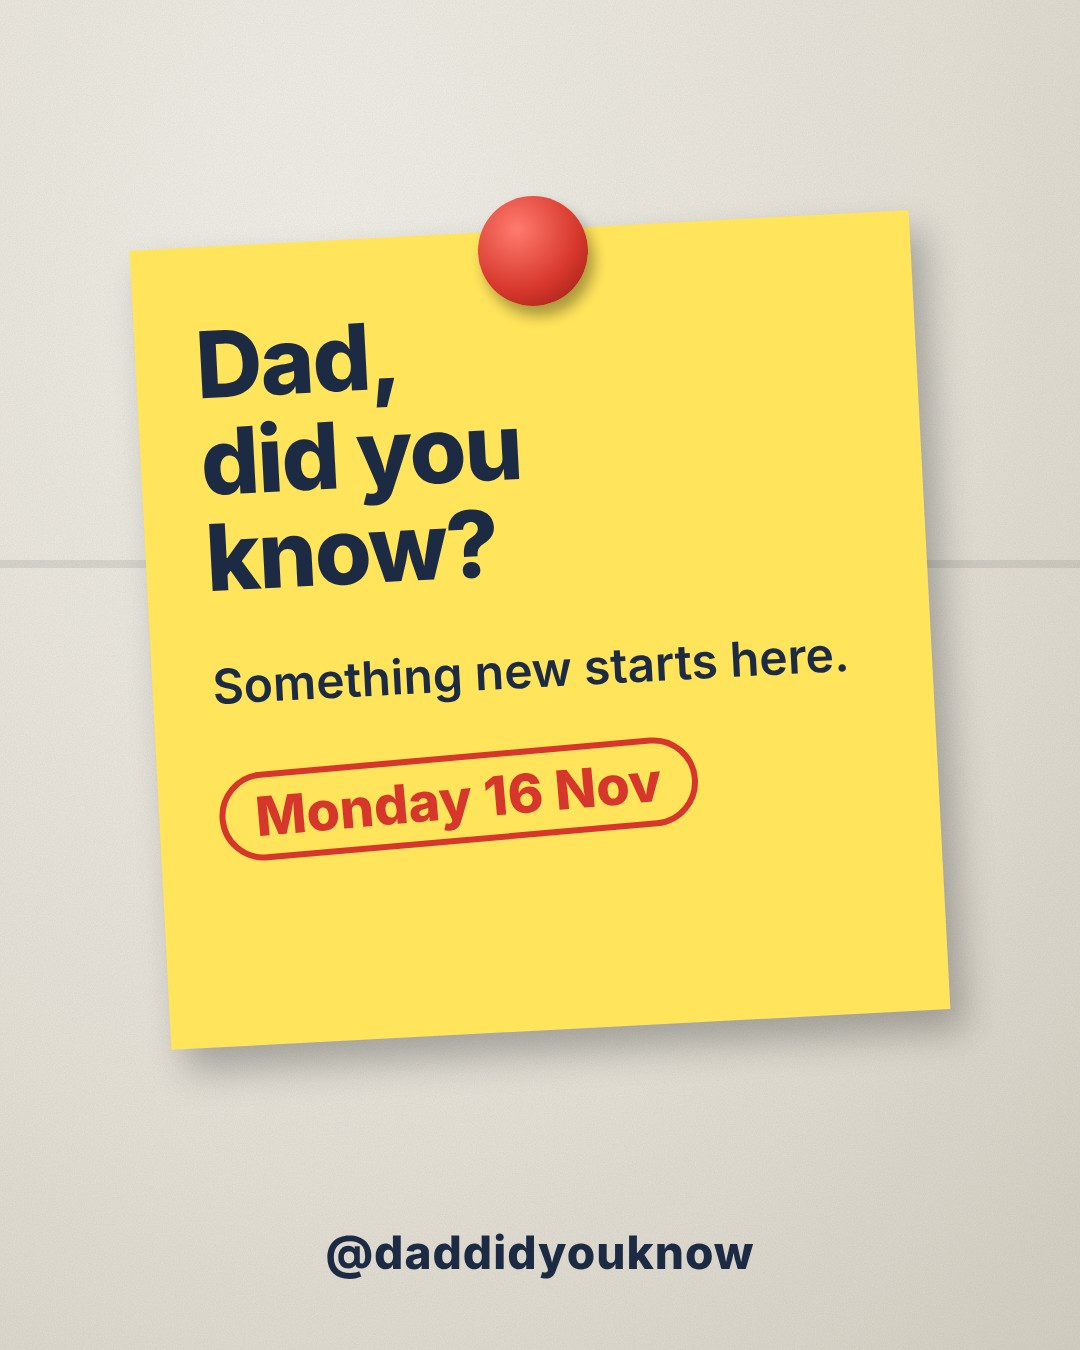
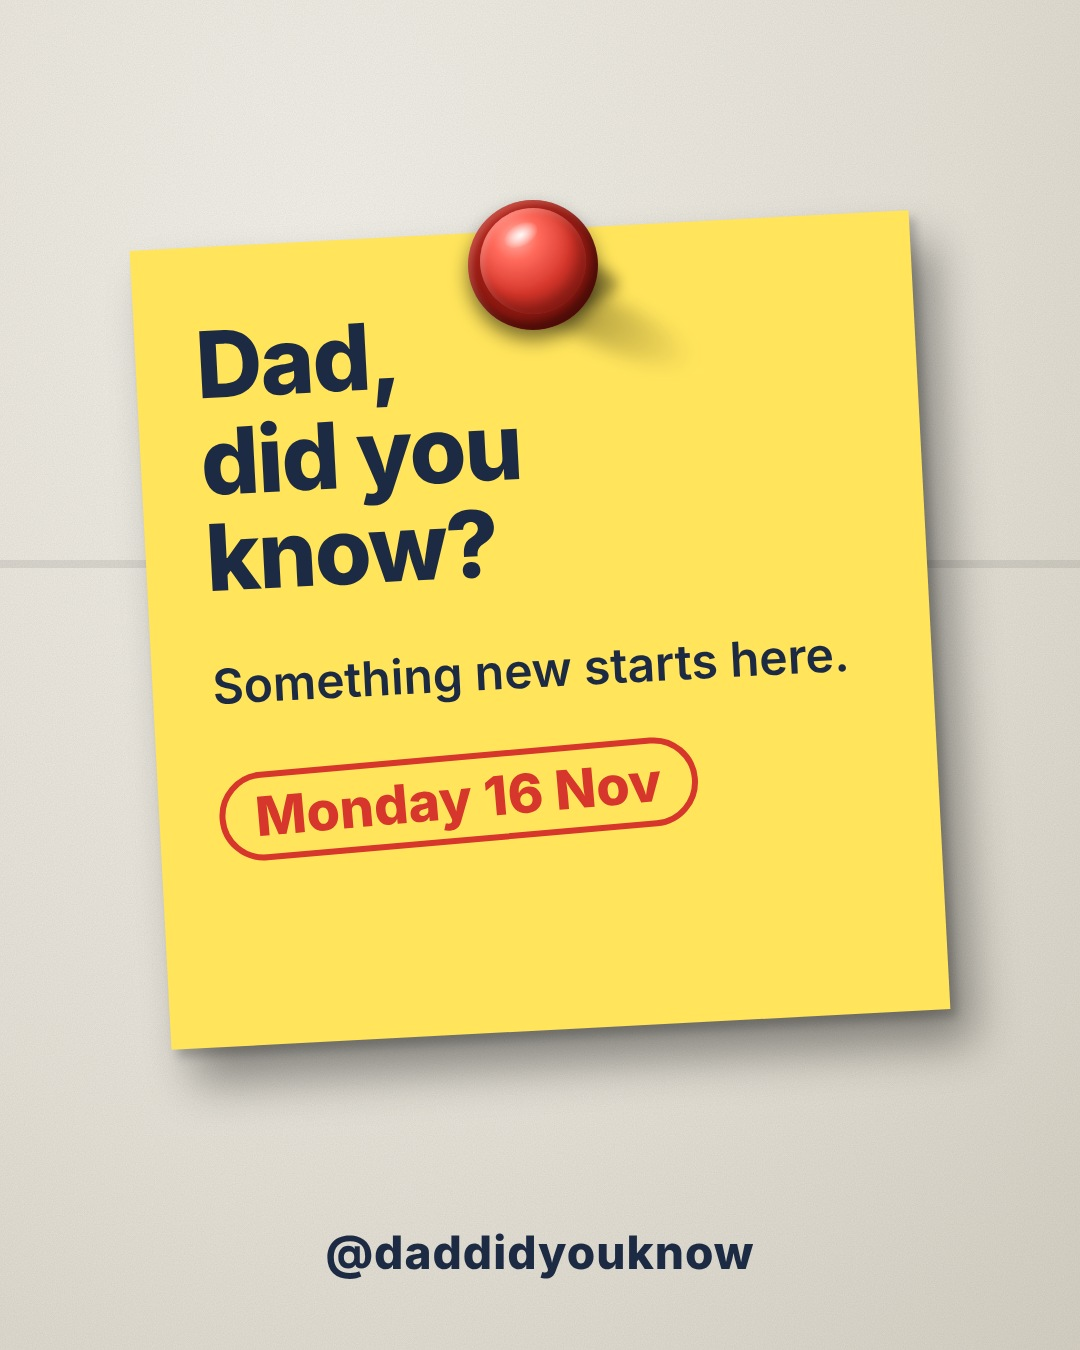
Dad teaser: 3D pin and stronger shadow (Neo change note)
Claude-Session: https://claude.ai/code/session_012VM5mbYLbt9cAHoy666xjZ

Changed region(s): [[0.1833, 0.1556, 0.9167, 0.8089], [0.4278, 0.1244, 0.6111, 0.28]]

diff --git a/teaser/card.html b/teaser/card.html
@@ -2,10 +2,15 @@
 radial-gradient(ellipse at 30% 20%,#f4f1ea 0%,#e6e2d8 60%,#d6d1c4 100%);font-family:Inter,sans-serif">
 <svg width="1080" height="1350" style="position:absolute;inset:0"><filter id="n"><feTurbulence type="fractalNoise" baseFrequency=".9" numOctaves="2"/><feColorMatrix values="0 0 0 0 0  0 0 0 0 0  0 0 0 0 0  0 0 0 .07 0"/></filter><rect width="1080" height="1350" filter="url(#n)"/>
 <rect x="0" y="560" width="1080" height="8" fill="#00000014"/></svg>
-<div style="position:absolute;left:150px;top:230px;width:780px;height:800px;background:#ffe45c;transform:rotate(-3deg);box-shadow:14px 22px 36px #00000044;padding:70px 60px;box-sizing:border-box">
+<div style="position:absolute;left:150px;top:230px;width:780px;height:800px;background:#ffe45c;transform:rotate(-3deg);box-shadow:22px 34px 46px #00000066,6px 8px 10px #00000033;padding:70px 60px;box-sizing:border-box">
 <div style="font-weight:800;font-size:92px;line-height:1.05;color:#1d2a44;letter-spacing:-2px">Dad,<br>did you<br>know?</div>
 <div style="margin-top:50px;font-weight:600;font-size:48px;line-height:1.25;color:#1d2a44">Something new starts here.</div>
 <div style="margin-top:50px;display:inline-block;font-weight:800;font-size:54px;color:#d6362b;border:6px solid #d6362b;border-radius:50px;padding:6px 30px;transform:rotate(-2deg)">Monday 16 Nov</div></div>
-<div style="position:absolute;left:478px;top:196px;width:110px;height:110px;border-radius:50%;background:radial-gradient(circle at 35% 30%,#ff7b6e,#d6362b 60%,#8e1d15);box-shadow:6px 10px 14px #00000055"></div>
+<!-- pin: long cast shadow on note, flange, dome, specular -->
+<div style="position:absolute;left:520px;top:262px;width:190px;height:46px;background:linear-gradient(90deg,#00000070,#00000000);border-radius:50%;transform:rotate(24deg);transform-origin:0 50%;filter:blur(9px)"></div>
+<div style="position:absolute;left:498px;top:262px;width:120px;height:44px;border-radius:50%;background:#00000066;filter:blur(7px)"></div>
+<div style="position:absolute;left:468px;top:200px;width:130px;height:130px;border-radius:50%;background:radial-gradient(circle at 40% 35%,#c92a20,#7d140d 70%);box-shadow:inset -6px -8px 10px #00000066,inset 4px 4px 6px #ff9a8f66,0 10px 18px #00000080"></div>
+<div style="position:absolute;left:480px;top:208px;width:106px;height:106px;border-radius:50%;background:radial-gradient(circle at 34% 28%,#ffb3a8 0%,#ff6a5b 22%,#d6362b 55%,#8e1d15 100%);box-shadow:inset -8px -10px 14px #5a0c0788,inset 3px 3px 6px #ffffff40"></div>
+<div style="position:absolute;left:503px;top:224px;width:36px;height:22px;border-radius:50%;background:radial-gradient(ellipse,#fffffff0,#ffffff00 75%);transform:rotate(-30deg)"></div>
 <div style="position:absolute;bottom:70px;width:100%;text-align:center;font-weight:800;font-size:46px;color:#1d2a44;letter-spacing:1px">@daddidyouknow</div>
 </div></body></html>
